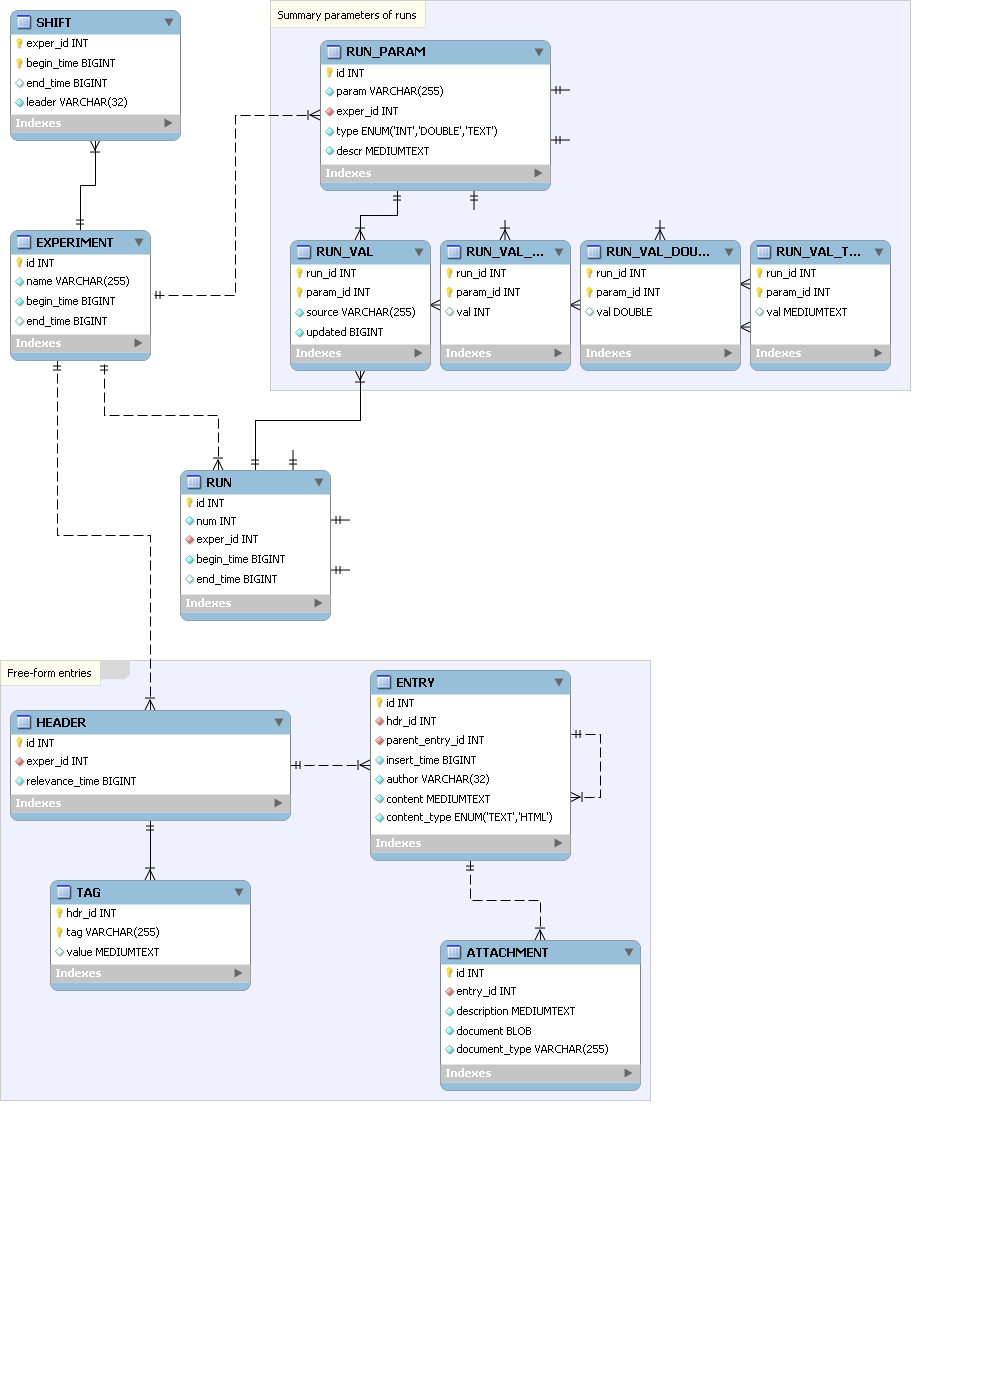
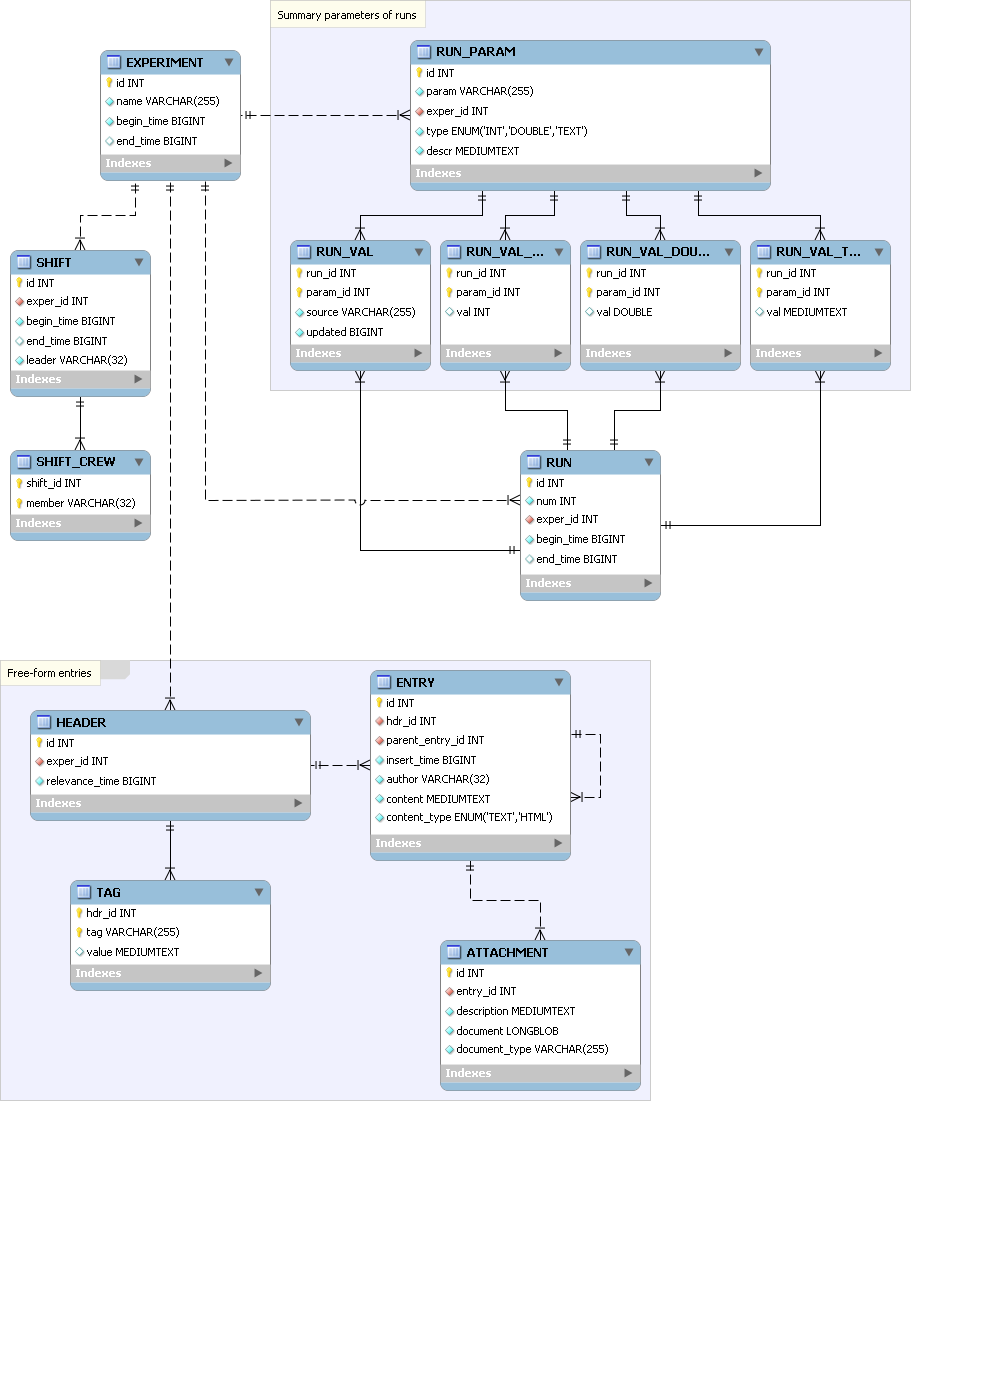
- extend schema and PHP implementation to allow shift crew members   in addition to the shift leader. Implement HTML tests.
M    doc/LogBook_schema_v0.sql
M    doc/LogBook_schema_v0.png
M    doc/LogBook_schema_v0.mwb
M    doc/LogBook_schema_v0_crop.png
M    doc/ChangeLog
M    web/ProcessListShifts.php
M    web/ProcessCreateShift.php
M    web/CreateShift.php
M    web/LogBookShift.class.php
M    web/LogBookExperiment.class.php
M    web/LogBookTestTable.class.php

git-svn-id: https://pswww.slac.stanford.edu/svn-readonly/psdmrepo@376 b967ad99-d558-0410-b138-e0f6c56caec7

diff --git a/LogBook/trunk/web/LogBookExperiment.class.php b/LogBook/trunk/web/LogBookExperiment.class.php
@@ -69,7 +69,18 @@ class LogBookExperiment {
         return $list;
     }
 
-    public function create_shift ( $leader, $begin_time, $end_time=null ) {
+    public function create_shift ( $leader, $crew, $begin_time, $end_time=null ) {
+
+        /* Verify the leader's name
+         */
+        if( is_null( $leader ))
+            throw new LogBookException(
+                __METHOD__, "crew leader name is null" );
+
+        $leader = trim( $leader );
+        if( strlen( $leader ) == 0 )
+            throw new LogBookException(
+                __METHOD__, "crew leader name is empty" );
 
         /* Make sure the interval is valid
          */
@@ -91,6 +102,28 @@ class LogBookExperiment {
                 __METHOD__,
                 "end time '".$end_time."' is out of experiment's limits" );
 
+        /* Process the list of crew members, and add the leader into it
+         * if the leader isn't there yet. Also make sure the array has
+         * no duplicate names, and the names aren't empty.
+         */
+        $shift_crew = array_unique( $crew );
+        foreach( $shift_crew as $member ) {
+
+            if( is_null( $member ))
+                throw new LogBookException(
+                    __METHOD__, "crew member name is null" );
+
+            $member = trim( $member );
+            if( strlen( $member ) == 0 )
+                throw new LogBookException(
+                    __METHOD__, "crew member name is empty" );
+
+            if( $member == $leader )
+                $leader_in_crew = true;
+        }
+        if( !$leader_in_crew )
+            array_push( $shift_crew, $leader );
+
         /* Get the last/current shift (if any). We want to make sure that
          * the new one begins afterward. Also, if the current shift
          * is open-ended then we want to get it closed where the new
@@ -107,15 +140,25 @@ class LogBookExperiment {
                 $last_shift->close( $begin_time );
         }
 
-        /* Proceed with the new shift.
+        /* Proceed with the new shift and the shift crew.
          */
         $this->connection->query (
-            'INSERT INTO "shift" VALUES('.$this->attr['id']
+            'INSERT INTO shift VALUES(NULL,'.$this->attr['id']
             .",".LusiTime::to64from( $begin_time )
             .",".( is_null( $end_time ) ? 'NULL' : LusiTime::to64from( $end_time ))
             .",'".$leader."')" );
 
-        return $this->find_shift_by_begin_time( $begin_time );
+        $new_shift = $this->find_shift_by_( 'id=(SELECT LAST_INSERT_ID())' );
+        if( is_null( $new_shift ))
+            throw new LogBookException(
+                __METHOD__,
+                "internal implementation errort" );
+
+        foreach( $shift_crew as $member )
+            $this->connection->query (
+                "INSERT INTO shift_crew VALUES({$new_shift->id()},'$member')" );
+
+        return $new_shift;
     }
 
     public function find_shift_by_begin_time ( $begin_time ) {

diff --git a/LogBook/trunk/web/LogBookTestTable.class.php b/LogBook/trunk/web/LogBookTestTable.class.php
@@ -18,8 +18,18 @@ class LogBookTestTable {
     /* Constructor
      */
     public function __construct( $cols, $keys, $css_class ) {
-        if( count( $cols ) != count( $keys ))
-            die("illegal parameters to the contsructor");
+
+        /* If no keys are provided then we're constructing a table
+         * of a single collumn. And values put into the the table's
+         * rows will be single variables, not dictionaries.
+         */
+        if( is_null( $keys )) {
+            if( count( $cols ) != 1 )
+                die("illegal parameters to the contsructor");
+        } else {
+            if( count( $cols ) != count( $keys ))
+                die("illegal parameters to the contsructor");
+        }
         $this->cols = $cols;
         $this->keys = $keys;
         $this->css_class = $css_class;
@@ -53,11 +63,21 @@ HERE;
         echo <<<HERE
         <tr>
 HERE;
-        foreach( $this->keys as $k ) {
-            $v = $attr[$k];
+        /* If the table has a single collumn and no keys were specified
+         * then the input parameter is interpreted as a single value,
+         * not a dictionary.
+         */
+        if( is_null( $this->keys )) {
             echo <<<HERE
+            <td>&nbsp;$attr&nbsp;</td>
+HERE;
+        } else {
+            foreach( $this->keys as $k ) {
+                $v = $attr[$k];
+                echo <<<HERE
             <td>&nbsp;$v&nbsp;</td>
 HERE;
+            }
         }
     echo <<<HERE
         </tr>
@@ -81,7 +101,10 @@ $title
 HERE;
         $this->begin();
         foreach( $list as $e )
-            $this->row($e->attr);
+            if( is_null( $this->keys ))
+                $this->row($e); // a special case of a single collumn table w/o keys
+            else
+                $this->row($e->attr);
         $this->end();
     }
 
@@ -95,8 +118,14 @@ HERE;
     }
     public static function Shift($css_class='table_4') {
         return new LogBookTestTable(
-            array("Experiment Id", "Begin Time", "End Time", "Shift Leader"),
-            array("exper_id",      "begin_time", "end_time", "leader"),
+            array("Id", "Experiment Id", "Begin Time", "End Time", "Shift Leader"),
+            array("id", "exper_id",      "begin_time", "end_time", "leader"),
+            $css_class );
+    }
+    public static function ShiftCrew($css_class='table_6') {
+        return new LogBookTestTable(
+            array("Crew"),
+            null,   // a special case of a single collumn table w/o keys
             $css_class );
     }
     public static function RunParam($css_class='table_4') {

diff --git a/LogBook/trunk/web/CreateShift.php b/LogBook/trunk/web/CreateShift.php
@@ -34,7 +34,7 @@ The page for creating a new shift.
                         <td align="right" style="width:6em;">
                             &nbsp;<b>Leader</b>&nbsp;</td>
                         <td>
-                            &nbsp;<input align="left" size="16" type="text" name="leader" value="" />&nbsp;</td>
+                            &nbsp;<input align="left" size="16" type="text" name="leader" value=" <?php echo $_SERVER['WEBAUTH_USER']; ?> " />&nbsp;</td>
                         <td>
                             &nbsp;UNIX account name</td>
                     </tr>
@@ -73,6 +73,30 @@ The page for creating a new shift.
                 </tbody>
             </table>
             <br>
+            <br>
+            <table ellpadding="3" border="0" >
+                <thead style="color:#0071bc;">
+                    <th align="left">
+                        &nbsp;<b>Other crew members</b>&nbsp;</th>
+                </thead>
+                <tbody>
+                    <tr>
+                        <td><hr></td>
+                    </tr>
+                    <tr>
+                        <td align="left">
+                            &nbsp;<input align="left" size="16" type="text" name="crew_member1" value="" />&nbsp;</td>
+                    </tr>
+                    <tr>
+                        <td align="left">
+                            &nbsp;<input align="left" size="16" type="text" name="crew_member2" value="" />&nbsp;</td>
+                    </tr>
+                    <tr>
+                        <td align="left">
+                            &nbsp;<input align="left" size="16" type="text" name="crew_member3" value="" />&nbsp;</td>
+                    </tr>
+                </tbody>
+            </table>
             <br>
             <input type="submit" value="Submit" name="submit_button" /><br>
         </form>

diff --git a/LogBook/trunk/web/ProcessCreateShift.php b/LogBook/trunk/web/ProcessCreateShift.php
@@ -38,6 +38,22 @@ if( isset( $_POST['end_time'] )) {
 } else
     die( "no end time for shift" );
 
+// Read optional names of crew members submitted with the request
+//
+define( MAX_MEMBERS, 3 );   // max number of members to attach
+
+$crew = array();
+for( $i = 0; $i < MAX_MEMBERS; $i++ ) {
+
+    $key  = 'crew_member'.$i;
+    if( isset( $_POST[$key] )) {
+
+        $member = trim( $_POST[$key] );
+        if( $member != '' )
+            array_push( $crew, $member );
+    }
+}
+
 /* Proceed with the operation
  */
 try {
@@ -47,28 +63,10 @@ try {
     $experiment = $logbook->find_experiment_by_name( $experiment_name )
         or die("failed to find the experiment" );
 
-    $shift = $experiment->create_shift( $leader, $begin_time, $end_time );
-?>
-<!--
-The page for reporting the information about all shifts of the experiment.
--->
-<!DOCTYPE HTML PUBLIC "-//W3C//DTD HTML 4.01 Transitional//EN">
-<html>
-    <head>
-        <meta http-equiv="Content-Type" content="text/html; charset=UTF-8">
-        <title>Newely created shift</title>
-    </head>
-    <link rel="stylesheet" type="text/css" href="LogBookTest.css" />
-    <body>
-        <!------------------------------>
-        <h1>All shifts of an experiment</h1>
-        <h2><?php echo $experiment->name(); ?></h2>
-        <?php
-        LogBookTestTable::Shift()->show( $experiment->shifts());
-        ?>
-    </body>
-</html>
-<?php
+    $shift = $experiment->create_shift( $leader, $crew, $begin_time, $end_time );
+    /* Redirect to another page to see all experiments
+     */
+    header( 'Location: ListShifts.php' ) ;
 
     $logbook->commit();
 

diff --git a/LogBook/trunk/web/LogBookShift.class.php b/LogBook/trunk/web/LogBookShift.class.php
@@ -21,6 +21,9 @@ class LogBookShift {
 
     /* Accessors
      */
+    public function id() {
+        return $this->attr['id']; }
+
     public function exper_id() {
         return $this->attr['exper_id']; }
 
@@ -63,6 +66,31 @@ class LogBookShift {
         /* Update the current state of the object
          */
         $this->attr['end_time'] = $end_time_64;
+    }
+
+    /**
+     * Get a complete crew (names of all members including the leader)
+     *
+     * @return array
+     */
+    public function crew() {
+
+        $list = array();
+
+        $result = $this->connection->query(
+            'SELECT member FROM shift_crew WHERE shift_id='.$this->id());
+
+        $nrows = mysql_numrows( $result );
+        for( $i = 0; $i < $nrows; $i++ ) {
+            $member =  mysql_result( $result, $i );
+            array_push( $list, $member );
+            if( $member == $this->leader())
+                $leader_in_crew = true;
+        }
+        if( !$leader_in_crew )
+            array_push( $list, $this->leader());
+
+        return $list;
     }
 }
 ?>

diff --git a/LogBook/trunk/web/ProcessListShifts.php b/LogBook/trunk/web/ProcessListShifts.php
@@ -33,10 +33,14 @@ The page for reporting the information about all shifts of the experiment.
     </head>
     <link rel="stylesheet" type="text/css" href="LogBookTest.css" />
     <body>
-        <!------------------------------>
         <h1>All shifts of experiment : <?php echo $experiment->name(); ?></h1>
         <?php
-        LogBookTestTable::Shift( "table_4")->show( $experiment->shifts());
+        $shifts = $experiment->shifts();
+        foreach( $shifts as $s ) {
+            LogBookTestTable::Shift( "table_4" )->show( array( $s ));
+            LogBookTestTable::ShiftCrew( "table_6" )->show( $s->crew());
+            echo( '<br>' );
+        }
         ?>
     </body>
 </html>
